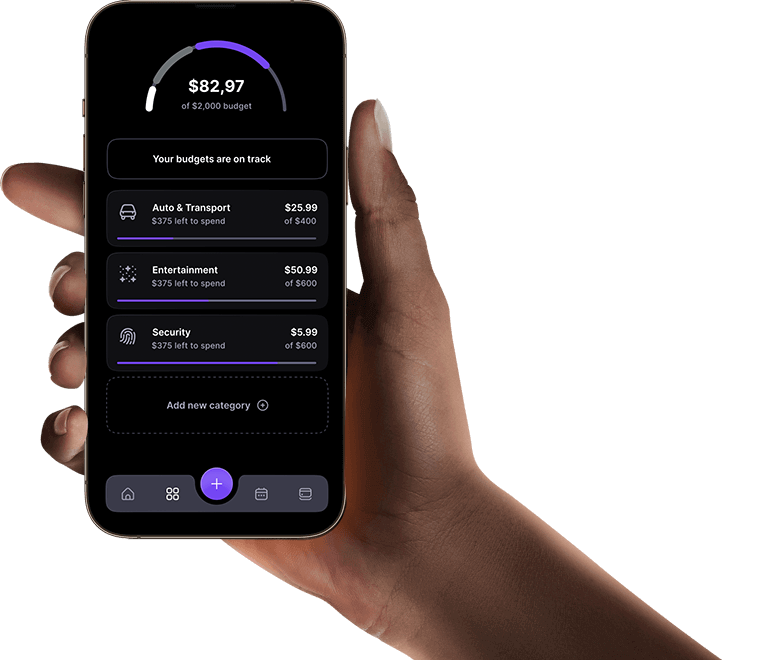
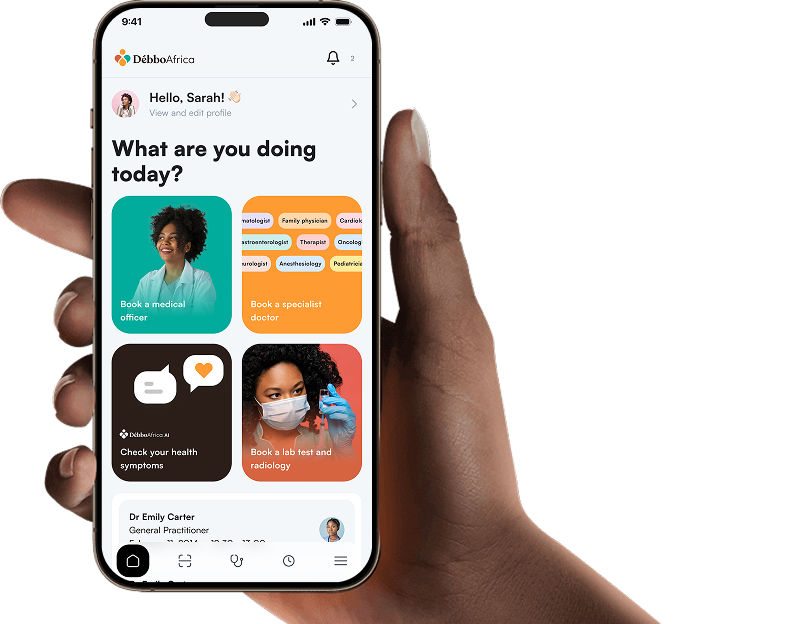
add

diff --git a/components/lets-work-together.tsx b/components/lets-work-together.tsx
@@ -23,7 +23,7 @@ export function LetsWorkTogetherSection({
   description = "Contact us to learn more or request a custom wellness package.",
   buttonText = "Contact Us ",
   buttonLink = "/contact",
-  imageSrc = "/images/lets-wrok.png",
+  imageSrc = "/images/sharps.svg",
   imageAlt = "Team member",
   download = false,
   topImageSrc = "/images/download-phone.png",
@@ -43,7 +43,7 @@ export function LetsWorkTogetherSection({
           }`}
         >
           <div
-            className={`flex flex-col lg:flex-row items-center min-h-[650px] md:min-h-[400px] ${
+            className={`flex flex-col lg:flex-row items-center min-h-[670px] md:min-h-[400px] ${
               download && "min-h-[500px]"
             }`}
           >
@@ -54,7 +54,7 @@ export function LetsWorkTogetherSection({
               </p>
 
               {download ? (
-                <div className="flex gap-4">
+                <div className="flex gap-4 justify-center md:justify-start">
                   <Link href="#" target="_blank">
                     <Image
                       src="/images/appstore-large.svg"
@@ -94,14 +94,24 @@ export function LetsWorkTogetherSection({
               />
 
               {topImageSrc && download && (
+                <>
                 <Image
                   src={topImageSrc}
                   alt={topImageAlt}
                   width={300}
                   height={600}
-                  className="absolute left-1/2 transform -translate-x-1/2 w-80 lg:w-[30rem] h-auto
-                  top-1/2 -translate-y-1/2 lg:top-auto lg:-bottom-24 lg:translate-y-0"
+                  className="hidden md:block absolute left-1/2 transform -translate-x-1/2 w-80 md:w-[30rem] h-auto
+                  top-1/2 -translate-y-1/2 md:top-auto md:-bottom-28 lg:translate-y-0"
                 />
+                <Image
+                  src={topImageSrc}
+                  alt={topImageAlt}
+                  width={300}
+                  height={600}
+                  className="absolute md:hidden right-0 transform w-[27rem] h-auto
+                  top-1/2 -translate-y-[65%]  left-[30%]"
+                  />
+                  </>
               )}
             </div>
           </div>

diff --git a/components/health-feature-cards.tsx b/components/health-feature-cards.tsx
@@ -118,14 +118,14 @@ export default function HealthFeatureCards() {
           />
         </div>
 
-        <div className="relative z-10 p-8 md:p-12 pb-0 flex flex-col lg:flex-row items-center">
+        <div className="relative z-10  md:p-12 md:px-6 lg:px-12 pb-0 flex flex-col lg:flex-row lg:items-center">
           <div className="flex-1 text-white mb-8 lg:mb-0 lg:mr-8">
             <h2 className="text-3xl md:text-4xl font-semibold mb-4">
               Track What Truly
               <br />
               Matters
             </h2>
-            <p className="text-white/90 text-lg leading-relaxed max-w-md">
+            <p className="text-white/90 text-lg leading-relaxed max-w-xs lg:max-w-md">
               Our AI-powered triage tool assesses your symptoms and connects you
               to the care you need, when you need it.
             </p>

diff --git a/components/donwload-hero-section.tsx b/components/donwload-hero-section.tsx
@@ -4,7 +4,7 @@ import Image from "next/image";
 
 const DonwloadHeroSection = () => {
   return (
-    <section className="w-full rounded-2xl overflow-hidden max-w-7xl mx-auto ">
+    <section className="w-full md:px-4  rounded-2xl overflow-hidden lg:max-w-7xl mx-auto ">
       <div className="hidden md:flex relative w-full h-[500px] aspect-[4/3]">
         <Image
           src="/images/hero-bg-large.png"
